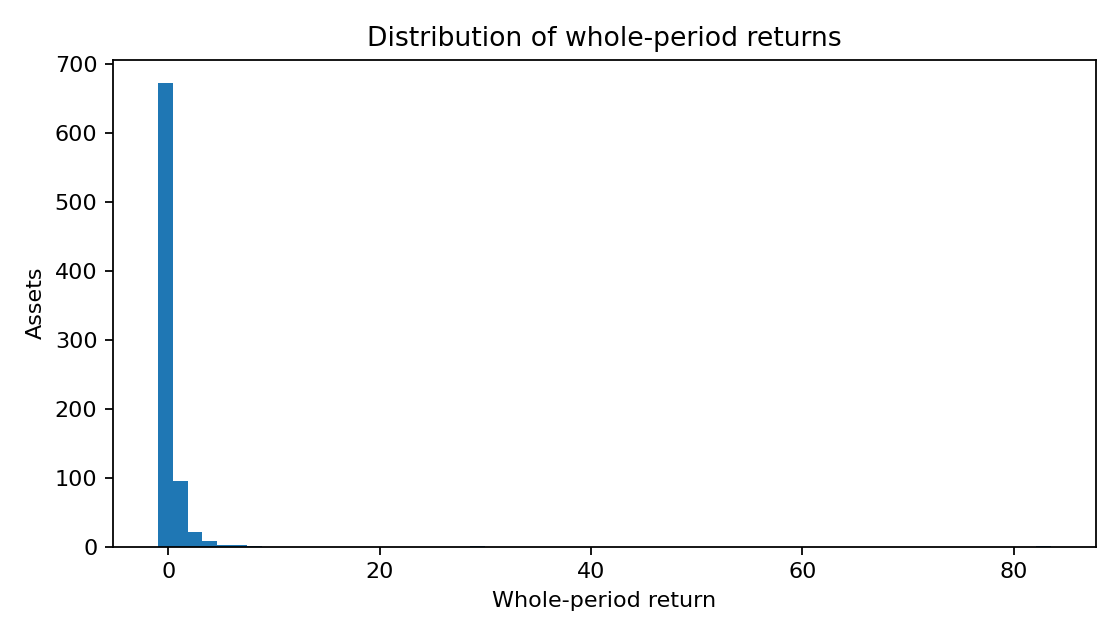
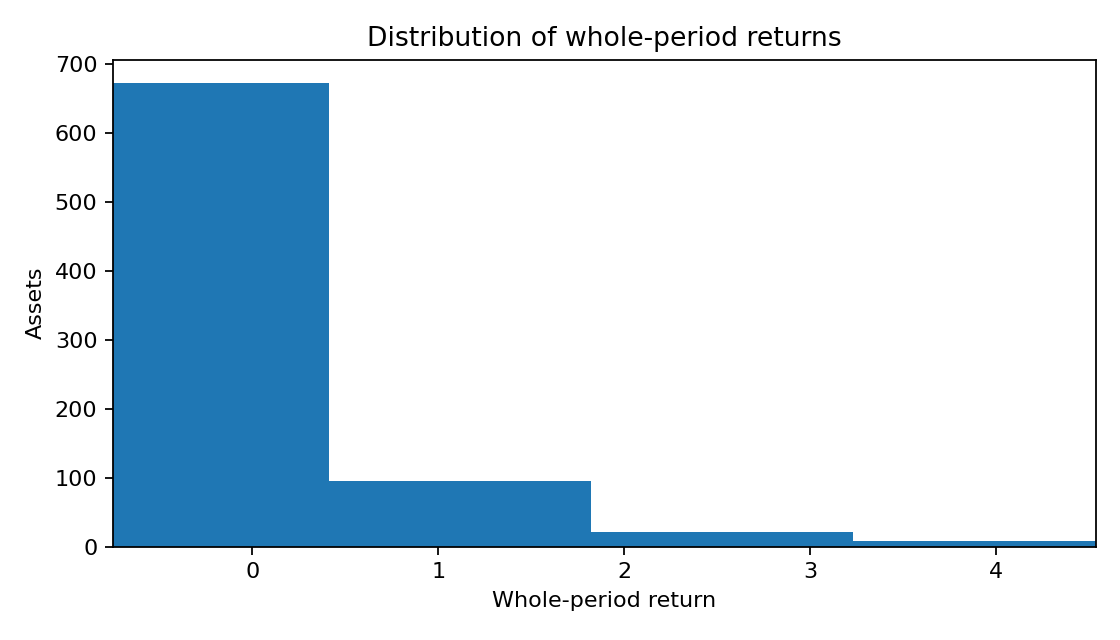
Updated baseline recommendation

Changed region(s): [[0.0938, 0.125, 0.9688, 0.9062]]

diff --git a/src/Component/EDA.py b/src/Component/EDA.py
@@ -107,7 +107,9 @@ kpis = pd.DataFrame({
 save_table(kpis, "whole_period_return_kpis")
 
 plt.figure(figsize=(7,4))
+lo, hi = asset_period_returns["period_return"].quantile([0.01, 0.99])
 asset_period_returns["period_return"].plot(kind="hist", bins=60)
+plt.xlim(lo, hi)
 plt.xlabel("Whole-period return"); plt.ylabel("Assets"); plt.title("Distribution of whole-period returns")
 save_fig("whole_period_return_hist")
 
